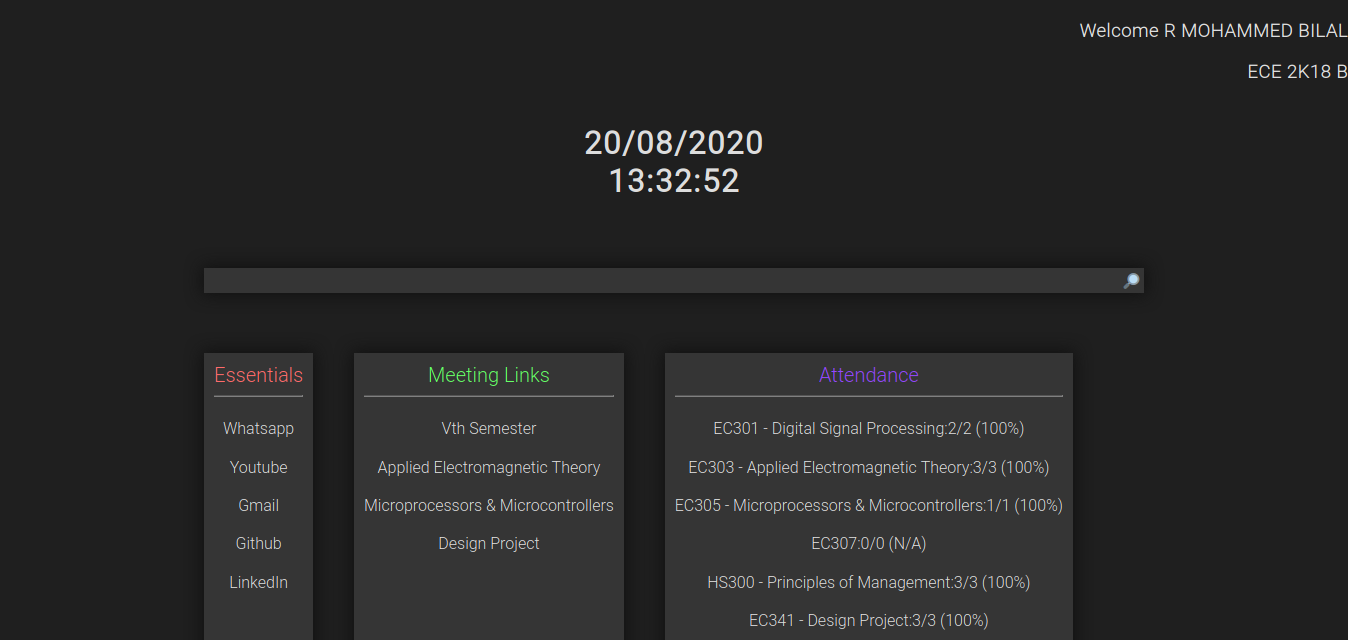
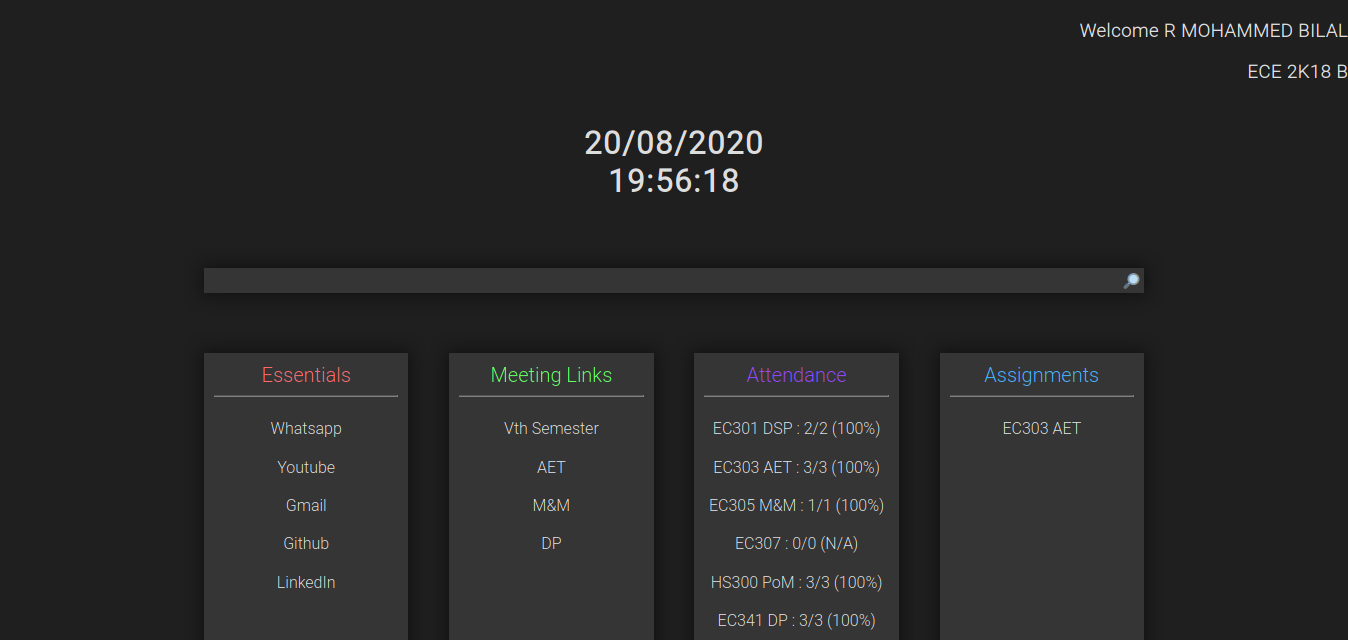
unsubmitted assigns

Changed region(s): [[0.1558, 0.5625, 0.8412, 1.0], [0.4674, 0.25, 0.5608, 0.3125]]

diff --git a/templates/index.html b/templates/index.html
@@ -36,7 +36,7 @@
             </form>
         </div>
         <div id="links-container">
-            <section class="link-section" style="width: max-content;">
+            <section class="link-section">
                 <h2 class="link-section-title red" align="center">Essentials</h2>
                 <hr />
                 <ul class="link-list">
@@ -47,7 +47,7 @@
                     <li class="link-list-item"><a class="link" add target="_blank" href="https://linkedin.com">LinkedIn</a></li>
                 </ul>
             </section>
-            <section class="link-section" style="width: max-content;">
+            <section class="link-section">
                 <h2 class="link-section-title green" align="center">Meeting Links</h2>
                 <hr />
                 <ul class="link-list">
@@ -56,12 +56,21 @@
          			{% endfor %}
                 </ul>
             </section>
-            <section class="link-section" style="width: max-content;">
+            <section class="link-section">
                 <h2 class="link-section-title purple" align="center">Attendance</h2>
                 <hr />
                 <ul class="link-list">
                 	{% for k,v in attendance.items() %}
-                    	<li class="link-list-item"><a class="link" href="#">{{k}}:{{v}}</a></li>
+                    	<li class="link-list-item"><a class="link" href="#">{{k}} : {{v}}</a></li>
+                	{%endfor%}
+                </ul>
+            </section>
+            <section class="link-section">
+                <h2 class="link-section-title blue" align="center">Assignments</h2>
+                <hr />
+                <ul class="link-list">
+                	{% for k,v in pending.items() %}
+                    	<li class="link-list-item"><a class="link" href={{v}}>{{k}}</a></li>
                 	{%endfor%}
                 </ul>
             </section>

diff --git a/app.py b/app.py
@@ -41,6 +41,8 @@ def get_attendance_meet_url(username):
             sub_name = grid_data.find(text=re.compile(sub_code+'\s\-\s.+'))
             if sub_name != None:
                 sub_name=sub_name.replace('									','')
+                shortcode=sub_name.split('-')[-1]
+                sub_name=sub_name.split('-')[0]+"".join(e[0] for e in shortcode.split())
             else:
                 sub_name=sub_code
             perc = tag.find_all('td', {'class': 'span2'})[i].getText().strip()
@@ -60,14 +62,26 @@ def get_attendance_meet_url(username):
             sub_name=name.getText().replace('						','')
             sub_name=sub_name.replace('\n\t','')
             if sub_name!='\nVideo Link\n':
+                if "Semester" not in sub_name:
+                    sub_name="".join(e[0] for e in sub_name.split())
                 subjects.append(sub_name)
         for link in links:
             gmeet=link['href']
             link_dict[subjects[0]]=gmeet  
             subjects.remove(subjects[0])
+    assignment_url='https://tkmce.etlab.in/student/assignments'
+    assign_data=BeautifulSoup(sess.get(assignment_url).content,'html.parser')
+    assign_table=assign_data.find('table',{'class':'items table'})
+    subtag=assign_table.find_all('tr')
+    pending={}
+    for tag in subtag:
+        if tag.find('td',text='NOT SUBMITTED'):
+            _sub_name=tag.find('td').getText()
+            _shortcode=_sub_name.split('-')[-1]
+            _sub_name=_sub_name.split('-')[0]+"".join(e[0] for e in _shortcode.split())
+            pending[_sub_name]='https://tkmce.etlab.in/student'+tag.find('a')['href']
 
-    print(link_dict)
-    return(render_template("index.html",attendance=attendance,links=link_dict,name=user_name,batch=batch))
+    return(render_template("index.html",attendance=attendance,links=link_dict,name=user_name,batch=batch,pending=pending))
 
 @app.errorhandler(404)
 def not_found(error):
